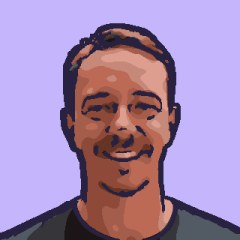
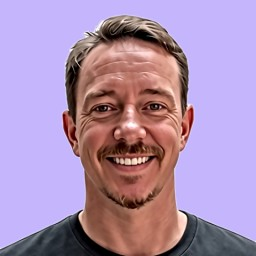
Teacher heads: clean photos on bright backgrounds
Claude-Session: https://claude.ai/code/session_01264TqFonEdQAp9MQ1cAZdS

Changed region(s): [[0.0, 0.0583, 1.0, 1.0], [0.4083, 0.8167, 0.4375, 0.875], [0.9333, 0.9917, 0.9625, 1.0]]

diff --git a/index.html b/index.html
@@ -695,7 +695,7 @@
     if (!c) return '';
     if (c.photo) return c.photo;
     var k = teacherKey(c);
-    return TEACHERS.indexOf(k) >= 0 ? '/teachers/' + k + '.jpg' : '';
+    return TEACHERS.indexOf(k) >= 0 ? '/teachers/' + k + '.jpg?v=2' : '';
   }
   function teacherInitial(c) { var k = teacherKey(c); return k && !/^class$/.test(k) ? k[0].toUpperCase() : ''; }
 
